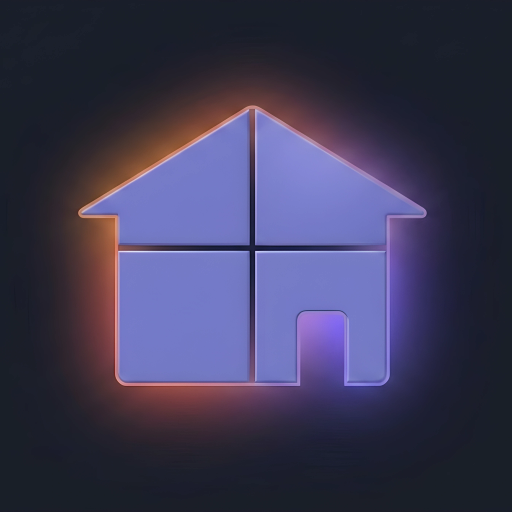
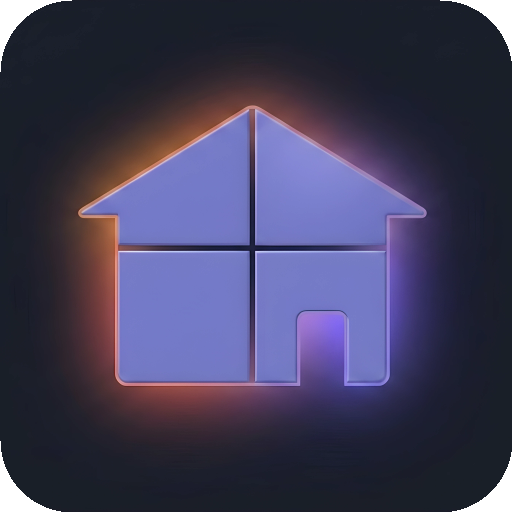
Polish homepage navigation and interactions

diff --git a/apps/web/app/globals.css b/apps/web/app/globals.css
@@ -56,6 +56,10 @@ a { color: inherit; }
 .site-session-nav { position: fixed; z-index: 100; top: 18px; right: clamp(16px, 3vw, 38px); display: flex; align-items: center; gap: 14px; padding: 8px 10px; border: 1px solid #303752aa; border-radius: 8px; background: #0b0d16dd; backdrop-filter: blur(10px); }
 .site-session-nav a, .site-session-nav button { color: var(--text-secondary); font: inherit; font-size: .78rem; font-weight: 700; text-decoration: none; white-space: nowrap; }
 .site-session-nav a:hover, .site-session-nav button:hover { color: var(--text-primary); }
+.site-session-nav .site-nav-logo { display: grid; flex: 0 0 auto; width: 34px; height: 34px; place-items: center; border-radius: 7px; }
+.site-session-nav .site-nav-logo img { display: block; width: 34px; height: 34px; border-radius: 7px; object-fit: cover; }
+.site-session-nav .site-nav-logo:hover,
+.site-session-nav .site-nav-logo:focus-visible { filter: brightness(1.15); outline: 1px solid #f5984299; outline-offset: 2px; }
 .site-session-nav .site-nav-book { padding: 7px 10px; border: 1px solid #f59842cc; border-radius: 5px; background: #704021; box-shadow: 0 0 12px #f5984255, 0 0 24px #f5984228; color: #fff5e9; transition: border-color .2s ease, background .2s ease, box-shadow .2s ease; }
 .site-session-nav .site-nav-book:hover,
 .site-session-nav .site-nav-book:focus-visible { border-color: #ffb66f; background: #8a4d25; box-shadow: 0 0 16px #f5984288, 0 0 30px #f5984238; color: #fff; outline: none; }
@@ -139,6 +143,12 @@ a { color: inherit; }
   opacity: 1;
   animation: landing-sign-flicker 6.4s steps(1, end) infinite !important;
 }
+.scene-root .stage > svg #glow stop:first-child {
+  stop-opacity: .48;
+}
+.scene-root .stage > svg #glow stop:nth-child(2) {
+  stop-opacity: .2;
+}
 @keyframes landing-sign-power-on {
   0% { background-position: 0 0; opacity: 0; }
   8% { opacity: 1; }
@@ -205,7 +215,10 @@ a { color: inherit; }
 .landing-offering-links span { color: #f4a04f; font-size: .68rem; font-weight: 800; letter-spacing: .14em; }
 .landing-offering-links strong { font-size: clamp(1rem, 2vw, 1.35rem); }
 .landing-offering-links b { color: #f25d9c; font-size: 1.25rem; }
-.landing-marketing .landing-question-cta { width: 100%; margin-top: clamp(100px, 15vw, 180px); }
+.landing-page > .landing-question-cta {
+  width: min(100% - 40px, 1180px);
+  margin: 0 auto clamp(70px, 12vw, 150px);
+}
 .reviews-summary { display: grid; justify-items: end; flex: 0 0 auto; }
 .reviews-summary strong { font-size: 2.4rem; line-height: 1; }
 .reviews-summary > span:last-child { margin-top: 5px; color: var(--muted); font-size: .75rem; }
@@ -427,6 +440,7 @@ a { color: inherit; }
   .working-together-grid { gap: 0; }
   .possibilities-cta { padding-inline: 24px; }
   .landing-marketing { width: min(100% - 24px, 1180px); padding-top: 80px; }
+  .landing-page > .landing-question-cta { width: min(100% - 24px, 1180px); }
   .landing-offering-links { grid-template-columns: 1fr; }
   .landing-offering-links a:nth-child(n) { margin-inline: 0; }
   .site-session-nav { gap: 8px; }

diff --git a/apps/web/components/landing-scene.tsx b/apps/web/components/landing-scene.tsx
@@ -5,7 +5,7 @@ import { useEffect, useRef } from "react";
 
 import { ContactLinks } from "./contact-links";
 import { GoogleReviews } from "./google-reviews";
-import { LandingMarketingSections } from "./landing-marketing-sections";
+import { LandingMarketingSections, LandingQuestionCta } from "./landing-marketing-sections";
 import { landingSceneMarkup } from "./landing-scene-markup";
 import { prepareRouteTransition } from "./route-transition";
 
@@ -434,7 +434,7 @@ export function LandingScene({ launchOfferEnabled = false }: { launchOfferEnable
       chainHint.innerHTML = `
         <text x="424" y="20" transform="rotate(-5 424 20)">(pull me)</text>
         <path d="M423 28 C405 30 380 36 363 43" />
-        <path d="M363 43 L367 34 M363 43 L373 41" />
+        <path d="M363 43 L370 34 M363 43 L374 45" />
       `;
       sceneSvg.append(chainHint);
     }
@@ -518,7 +518,12 @@ export function LandingScene({ launchOfferEnabled = false }: { launchOfferEnable
 
     let readyTimer: number | undefined;
     let hintTimer: number | undefined;
-    if (!restored) hintTimer = window.setTimeout(() => root.classList.add("chain-hint-visible"), 10_000);
+    const scheduleChainHint = () => {
+      window.clearTimeout(hintTimer);
+      root.classList.remove("chain-hint-visible");
+      hintTimer = window.setTimeout(() => root.classList.add("chain-hint-visible"), 10_000);
+    };
+    if (!restored) scheduleChainHint();
     const setPowered = (powered: boolean) => {
       root.classList.toggle("lit", powered);
       document.body.classList.toggle("landing-lights-off", !powered);
@@ -527,6 +532,8 @@ export function LandingScene({ launchOfferEnabled = false }: { launchOfferEnable
       if (powered) {
         window.clearTimeout(hintTimer);
         root.classList.remove("chain-hint-visible");
+      } else {
+        scheduleChainHint();
       }
       if (powered && !root.classList.contains("session-restored")) {
         root.classList.remove("ambient-ready");
@@ -1066,6 +1073,7 @@ export function LandingScene({ launchOfferEnabled = false }: { launchOfferEnable
       </section>
       <LandingMarketingSections />
       <GoogleReviews />
+      <LandingQuestionCta />
       <footer className="landing-footer">
         <ContactLinks className="landing-contact" title="Let’s get connected" />
         <p>© {new Date().getFullYear()} Digital HandyDan</p>

diff --git a/apps/web/components/site-session-nav.tsx b/apps/web/components/site-session-nav.tsx
@@ -1,5 +1,6 @@
 "use client";
 
+import Image from "next/image";
 import Link from "next/link";
 import { usePathname, useRouter } from "next/navigation";
 import { useEffect, useState } from "react";
@@ -15,6 +16,10 @@ export function SiteSessionNav() {
   return <>
     {pathname !== "/" && <Link className="site-home-link" href="/" aria-label="Back to Digital HandyDan home">← Digital HandyDan</Link>}
     <nav className="site-session-nav" aria-label="Account navigation">
+      {pathname === "/demos" &&
+        <Link className="site-nav-logo" href="/" aria-label="Digital HandyDan home">
+          <Image src="/apple-icon.png" alt="" width={34} height={34} priority />
+        </Link>}
       {(pathname === "/" || pathname === "/demos") && <Link className="site-nav-book" href="/book">Book an appointment</Link>}
       {user ? <><Link href={user.role === "admin" ? "/admin" : "/account"}>Hi, {user.firstName}</Link><button onClick={logout}>Sign out</button></> : user === null ? <Link href="/login">Sign in</Link> : null}
     </nav>

diff --git a/apps/web/components/landing-marketing-sections.tsx b/apps/web/components/landing-marketing-sections.tsx
@@ -50,11 +50,16 @@ export function LandingMarketingSections() {
         </nav>
       </section>
 
-      <section className="possibilities-cta landing-question-cta">
-        <p className="eyebrow">Have a question of your own?</p>
-        <h2>Let&apos;s make your home work the way you want it to.</h2>
-        <Link className="primary-button" href="/book">Book a consultation</Link>
-      </section>
     </div>
+  );
+}
+
+export function LandingQuestionCta() {
+  return (
+    <section className="possibilities-cta landing-question-cta">
+      <p className="eyebrow">Have a question of your own?</p>
+      <h2>Let&apos;s make your home work the way you want it to.</h2>
+      <Link className="primary-button" href="/book">Book a consultation</Link>
+    </section>
   );
 }
